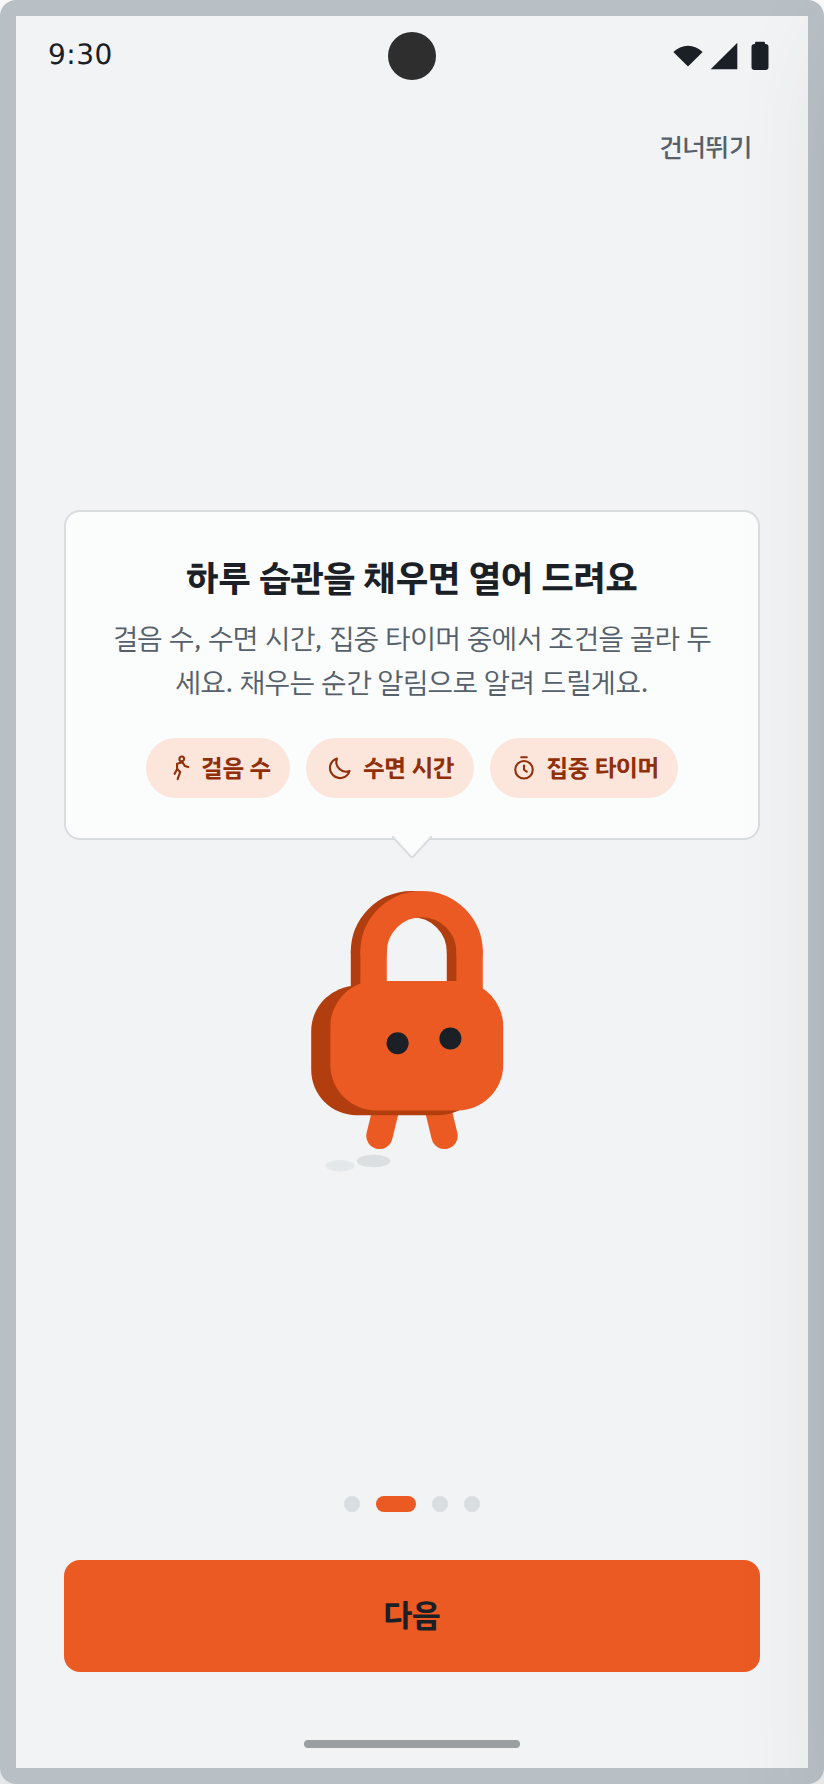
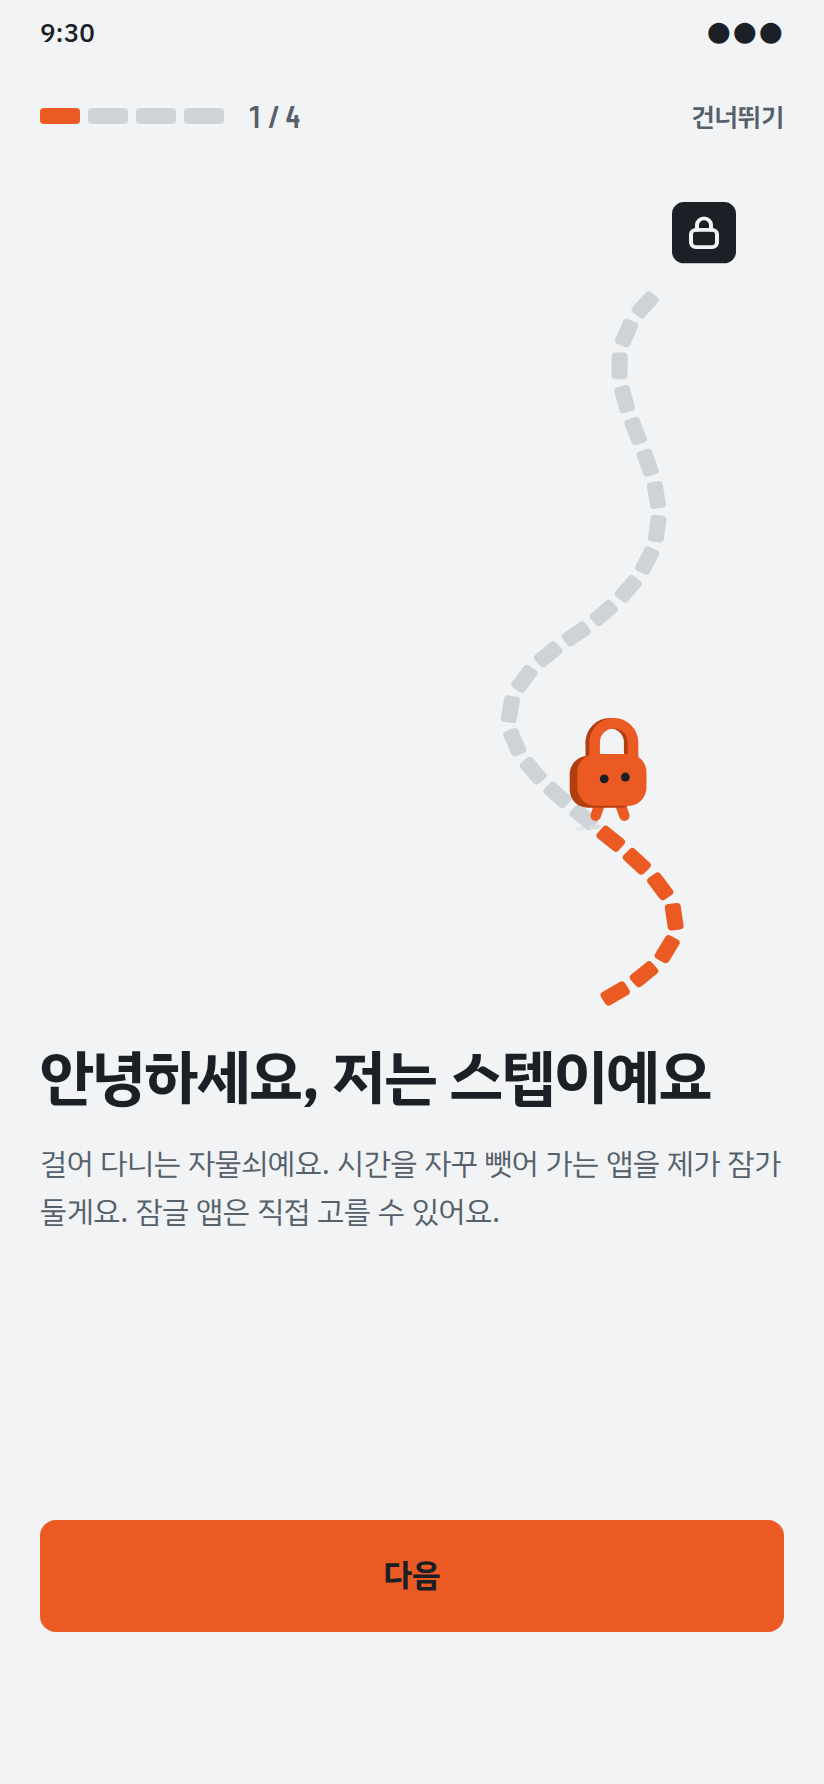
회원가입·튜토리얼 사진과 README 설명 갱신
Claude-Session: https://claude.ai/code/session_01TfDVSB28YoT3k36WsBEoLF

diff --git a/README.md b/README.md
@@ -41,7 +41,7 @@
 
 | 자리 | 스텝이의 말 |
 | --- | --- |
-| 첫 실행 튜토리얼 | "안녕하세요, 저는 스텝이예요" — 네 장에 나눠 앱 쓰는 법을 알려 줍니다 |
+| 첫 실행 튜토리얼 | "안녕하세요, 저는 스텝이예요" — 네 장을 넘길 때마다 등산로를 한 구간씩 올라 정상의 자물쇠에 닿습니다 |
 | 잠금 화면 | 등산로 위 지금 자리에 서서 "2,760보 — 더 걸으면 열려요" |
 | 집중 타이머 | "집중하는 동안 잠근 앱은 제가 지킬게요. 끝날 때까지 멈추지 않아요" (도는 중·쉬는 중·목표 달성·잠근 앱 없음마다 다름) |
 | 알림 | 머리글에 "스텝이"가 붙고, "해냈어요! 오늘은 열어 둘게요", 저녁 7~10시 "저녁 산책 같이 가요?" |
@@ -166,6 +166,23 @@
   **지금 차례인 걸음 하나만** 펼쳐져 무엇을 누르면 되는지와 "화면 위 표시 허용하기" 버튼을 보여 줍니다.
   끝난 걸음은 흑연 체크로 접힙니다. 위에서부터 버튼만 따라 누르면 끝나고, 다 끝나야 "스텝락 시작하기"가 나옵니다
   (권한 없이 둘러보는 길은 그대로 남겨 둡니다).
+
+### 회원가입 · 튜토리얼
+
+<p align="center">
+  <img src="docs/screens/18-signup.png" width="23%" alt="회원가입 1단계 — 이메일" />
+  <img src="docs/screens/19-signup-agree.png" width="23%" alt="회원가입 3단계 — 동의" />
+  <img src="docs/screens/10-tutorial.png" width="23%" alt="튜토리얼 1장 — 등산로 입구" />
+  <img src="docs/screens/20-tutorial-unlock.png" width="23%" alt="튜토리얼 2장 — 한 구간 오름" />
+</p>
+
+- **회원가입은 한 화면에 한 질문.** "어떤 이메일로 가입할까요? → 비밀번호를 정해 주세요 → 마지막으로 하나만
+  확인할게요" 세 단계로 나누고, 그 단계가 맞아야 "다음 단계로"가 눌립니다. 위 오른쪽의 표식 세 칸이 남은
+  단계를, 뒤로 가기(화살표 · 시스템 뒤로)는 이전 단계를 뜻합니다. 마지막 단계에서 가입할 이메일을 한 번 더
+  보여 주고 바로 고칠 수 있게 했습니다. 소셜 계정은 따로 가입이 필요 없다는 안내는 첫 단계에 남겼습니다.
+- **튜토리얼은 등산로를 오르기.** 말풍선 + 가운데 캐릭터 대신, 위에 홈과 같은 길을 두고 장을 넘길 때마다
+  스텝이가 한 구간씩 오릅니다. 마지막 장에서 정상에 닿으면 자물쇠가 주황으로 바뀝니다 — "채우면 열린다"를
+  글보다 그림으로 먼저 겪게 했습니다. 글은 왼쪽 정렬 큰 제목 + 본문, 장 표시는 점 대신 표식 칸과 "1 / 4".
 
 ### 잠금 화면 · 집중 타이머
 
